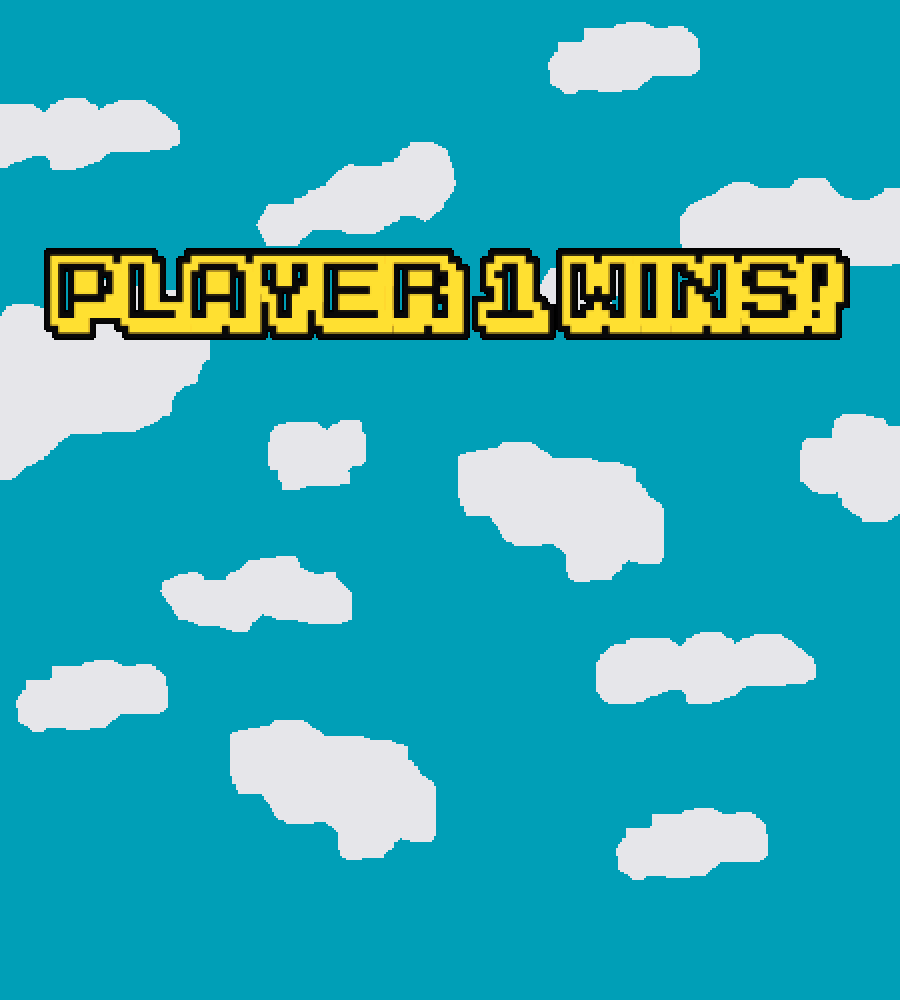
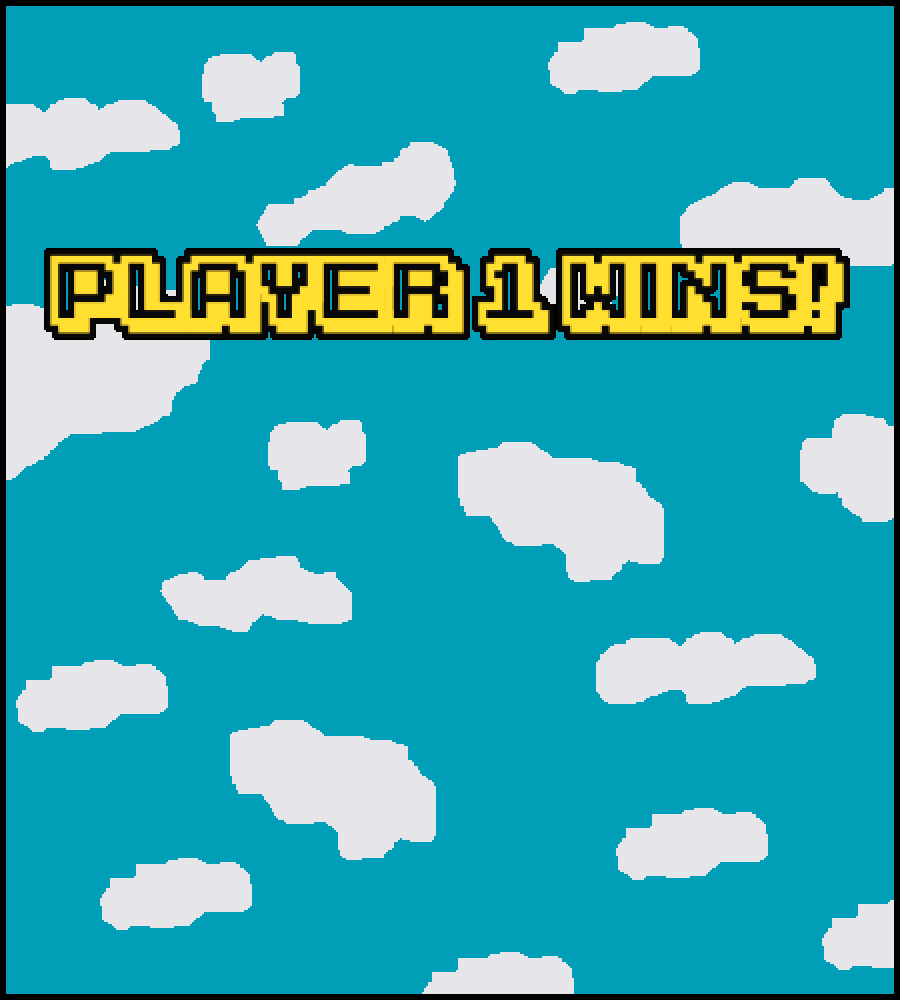
Sends highscore to DB

Changed region(s): [[0.0, 0.0, 1.0, 1.0], [0.0933, 0.837, 0.28, 0.93]]

diff --git a/src/answerquestgame/Play/Level.java b/src/answerquestgame/Play/Level.java
@@ -12,6 +12,8 @@ import answerquestgame.Game.ScreenType;
 import answerquestgame.Helpers.Sizes;
 import answerquestgame.NavigationButton.NavButtonType;
 import java.awt.Graphics;
+import java.awt.event.ActionEvent;
+import java.awt.event.ActionListener;
 import java.util.LinkedList;
 import javax.swing.JButton;
 import javax.swing.JDialog;
@@ -35,6 +37,7 @@ public class Level {
     private int scoresPlayer2[];
     private int sleep;
     private int topic;
+    private boolean noUsername;
     
     private boolean playerWon;
     private NavigationButton nextButton;
@@ -57,6 +60,8 @@ public class Level {
         this.game = game;
         player1WinCount = 0;
         player2WinCount = 0;
+        scoresPlayer1 = new int[3];
+        scoresPlayer2 = new int[3];
     }
 
     /**
@@ -80,13 +85,11 @@ public class Level {
         nextButton = new NavigationButton(Sizes.nextButton, NavButtonType.NEXTLEVEL, game);
         homeButton = new NavigationButton(Sizes.nextButton, NavButtonType.HOME, game);
         
-        scoresPlayer1 = new int[3];
-        scoresPlayer2 = new int[3];
-        
         paused = false;
         game.getKeyManager().releaseP();
         pauseScreen = new PauseScreen(this);
         pauseScreen.init();
+        noUsername = true;
     }
 
     /**
@@ -189,18 +192,20 @@ public class Level {
                 scoresPlayer1[0] = player1.getScore();
                 scoresPlayer2[0] = player2.getScore();
                 number = LevelNumber.TWO;
+                this.init(this.topic);
                 break;
             case TWO:
                 scoresPlayer1[1] = player1.getScore();
                 scoresPlayer2[1] = player2.getScore();
                 number = LevelNumber.THREE;
+                this.init(this.topic);
                 break;
             case THREE:
                 scoresPlayer1[2] = player1.getScore();
                 scoresPlayer2[2] = player2.getScore();
+                game.setScreen(ScreenType.MENU);
                 break;
         }
-        this.init(this.topic);
     }
     
     /**
@@ -238,7 +243,6 @@ public class Level {
             player1.tick();
             player2.tick();
             if (playerWon) {
-                //askForUsername();
                 player1.stop();
                 player1.canMove(false);
                 player2.stop();
@@ -246,7 +250,10 @@ public class Level {
                 homeButton.tick();
                 nextButton.tick();
                 if (number == LevelNumber.THREE && homeButton.isPressed()) {
-                    game.setScreen(ScreenType.MENU);
+                    changeLevel();
+                    if (number == LevelNumber.THREE && noUsername) {
+                        askForUsername();
+                    }
                 }
                 if (nextButton.isPressed()) {
                     changeLevel();
@@ -256,16 +263,43 @@ public class Level {
         
     }
     
+    /**
+     * Displays a Jframe to asks the user for its username
+     */
     private void askForUsername() {
         JDialog d = new JDialog(game.getDisplay().getJframe(), "Register High Score", true);
         JPanel pDisplay = new JPanel();
-        pDisplay.add(new JLabel("Please write your name"));
-        JTextField myField = new JTextField(50);
+        if (player1.hasWon()) {
+            pDisplay.add(new JLabel("Please write your initials:"));
+        } else if (player2.hasWon()) {
+            pDisplay.add(new JLabel("Please write your initials:"));
+        }
+        JTextField myField = new JTextField(10);
         pDisplay.add(myField);
+        
         JButton button = new JButton("Submit");
+        button.addActionListener(new ActionListener() {
+            /**
+            * Close the display box.
+            * @param con 
+            */
+             @Override
+             public void actionPerformed(ActionEvent con) {
+                int totalScore = 0;
+                if (player1.hasWon()) {
+                    totalScore += scoresPlayer1[0] + scoresPlayer1[1] + scoresPlayer1[2];
+                    
+                } else if (player2.hasWon()) {
+                    totalScore += scoresPlayer2[0] + scoresPlayer2[1] + scoresPlayer2[2];
+                }
+                getGame().getDatabase().insertScore(myField.getText(), totalScore, topic);
+                noUsername = false;
+                d.dispose();
+             }
+         });
         pDisplay.add(button);
         d.add(pDisplay);
-        d.setBounds(100, 300, 200, 300);
+        d.setBounds(100, 300, 200, 200);
         d.setLocationRelativeTo(game.getDisplay().getJframe());
         d.setVisible(true);
     }

diff --git a/src/answerquestgame/Play/Player.java b/src/answerquestgame/Play/Player.java
@@ -40,6 +40,7 @@ public class Player extends Item {
     private LinkedList<Question> questions;
     private int currentQuestionIndex;
     private Question currentQuestion;
+    private boolean didEndMoving;
     
     /**
      * Constructor
@@ -67,6 +68,7 @@ public class Player extends Item {
         falling = false;
         timesup = false;
         score = 0;
+        didEndMoving = false;
         setButtons();
         setTimer();
         setCurrentQuestion();
@@ -248,7 +250,8 @@ public class Player extends Item {
         }
 
         if (rigthWrong || leftWrong) {
-            score -= 60 - 0.3 * timer.getWidth();
+            score -= currentQuestion.getScoreToSum() / 2;
+            setCurrentQuestion();
             return true;
         } else {
             return false;
@@ -274,7 +277,8 @@ public class Player extends Item {
         if (rightCorrect || leftCorrect) {
             // get next question and answers
             // increase score
-            score += (int) 0.7 * timer.getWidth();
+            score += currentQuestion.getScoreToSum();
+            setCurrentQuestion();
             return true;
         } else {
             return false;
@@ -312,6 +316,7 @@ public class Player extends Item {
             falling = false;
             start();
             setTimesup(false);
+            setCurrentQuestion();
         }
     }
 
@@ -321,7 +326,7 @@ public class Player extends Item {
     private void moving() {
         enabled = false;
         timer.setCanMove(false);
-        // disble buttons 5 frames after pressed so they show the color change
+        // disble buttons 1 frame after pressed so they show the color change
         if (moveCounter == Sizes.playerMoveUp-1 || dropCounter == Sizes.playerMoveDown-1) {
             leftButton.setCanMove(false);
             rightButton.setCanMove(false);
@@ -330,10 +335,16 @@ public class Player extends Item {
         if (moveCounter > 0) {
             setY(getY()-1);
             moveCounter--;
+            if (moveCounter == 1) {
+                didEndMoving = true;
+            }
         }
         if (dropCounter > 0) {
             setY(getY()+2);
             dropCounter--;
+            if (dropCounter == 1) {
+                didEndMoving = true;
+            }
         }
         if (moveCounter == 0 && dropCounter == 0) {
             start();
@@ -373,23 +384,22 @@ public class Player extends Item {
         if (isTimesup()) {
             canMove = false;
             falling = true;
-            score -= 150;
+            score -= currentQuestion.getScoreToSum() * 2;
             stop();
             drop();
-            setCurrentQuestion();
         }
 
         // Moving player
         if (canMove) {
             if (enabled) {
                 if (checkWrong()) {
+                    didEndMoving = false;
                     dropCounter = Sizes.playerMoveDown;
                     timer.setWidth(Sizes.timerP1.width);
-                    setCurrentQuestion();
                 } else if (checkCorrect()) {
+                    didEndMoving = false;
                     moveCounter = Sizes.playerMoveUp;
                     timer.setWidth(Sizes.timerP1.width);
-                    setCurrentQuestion();
                 }
             }
             moving();

diff --git a/src/answerquestgame/Helpers/Database.java b/src/answerquestgame/Helpers/Database.java
@@ -186,7 +186,7 @@ public class Database {
        return highscores;
    }
    
-   public void insertPlayerData(String name, int score) {
+   public void insertScore(String name, int score, int topic) {
        try {
             String myDriver = "com.mysql.cj.jdbc.Driver";
             String myUrl = "jdbc:mysql://zerosumsandbox.c91oxw9rgzr9.us-east-1.rds.amazonaws.com:3306/sandbox";
@@ -194,9 +194,17 @@ public class Database {
             Connection conn = DriverManager.getConnection(myUrl, "sandbox", "answerquest");
 
             Statement st = conn.createStatement();
-            
-            st.executeUpdate("INSERT INTO Player (name, score) "
-                +"VALUES ('JP',13)");
+            if (topic == 1) {
+                 st.executeUpdate("INSERT INTO Player (name, scoreOne) "
+                +"VALUES ('" + name + "',"+score+")");
+            } else if (topic == 2) {
+                st.executeUpdate("INSERT INTO Player (name, scoreTwo) "
+                +"VALUES ('" + name + "',"+score+")");
+            } else if (topic == 3) {
+                st.executeUpdate("INSERT INTO Player (name, scoreThree) "
+                +"VALUES ('" + name + "',"+score+")");
+            }
+           
        } catch (Exception e) {
            System.out.println("Error: " + e.getLocalizedMessage());
        }

diff --git a/src/answerquestgame/Helpers/Sizes.java b/src/answerquestgame/Helpers/Sizes.java
@@ -89,7 +89,7 @@ public class Sizes {
         title = new SizeAndPos(widthFor(0.0416), heightFor(0.035), heightFor(0.15), widthFor(0.9166));
         player1 = new SizeAndPos(widthFor(0.16), heightFor(0.6625), heightFor(0.1375), widthFor(0.1833));
         player2 = new SizeAndPos(widthFor(0.633), heightFor(0.6625), heightFor(0.1375), widthFor(0.1833));
-        overall = new SizeAndPos(widthFor(0.1916), heightFor(0.375), heightFor(0.3125), widthFor(0.375));
+        overall = new SizeAndPos(widthFor(0.2583), heightFor(0.375), heightFor(0.3125), widthFor(0.5));
         playerBottomLimit = heightFor(0.6625);
         playerTopLimit = heightFor(0.2237);
         

diff --git a/src/answerquestgame/Helpers/KeyManager.java b/src/answerquestgame/Helpers/KeyManager.java
@@ -59,5 +59,10 @@ public class KeyManager implements KeyListener {
         d = keys[KeyEvent.VK_D];
         enter = keys[KeyEvent.VK_ENTER];
         p = keys[KeyEvent.VK_P];
+        
+        keys[KeyEvent.VK_LEFT] = false;
+        keys[KeyEvent.VK_RIGHT] = false;
+        keys[KeyEvent.VK_A] = false;
+        keys[KeyEvent.VK_D] = false;
     }
 }

diff --git a/src/answerquestgame/ChooseTopic.java b/src/answerquestgame/ChooseTopic.java
@@ -93,7 +93,7 @@ public class ChooseTopic {
         
         ScreenType nextScreen;
         if (toGame) {
-            game.getLevel().setLevelNumber(LevelNumber.ONE);
+            game.getLevel().setLevelNumber(LevelNumber.THREE);
             nextScreen = ScreenType.LEVEL;
         } else {
             nextScreen = ScreenType.LEADERBOARD;
